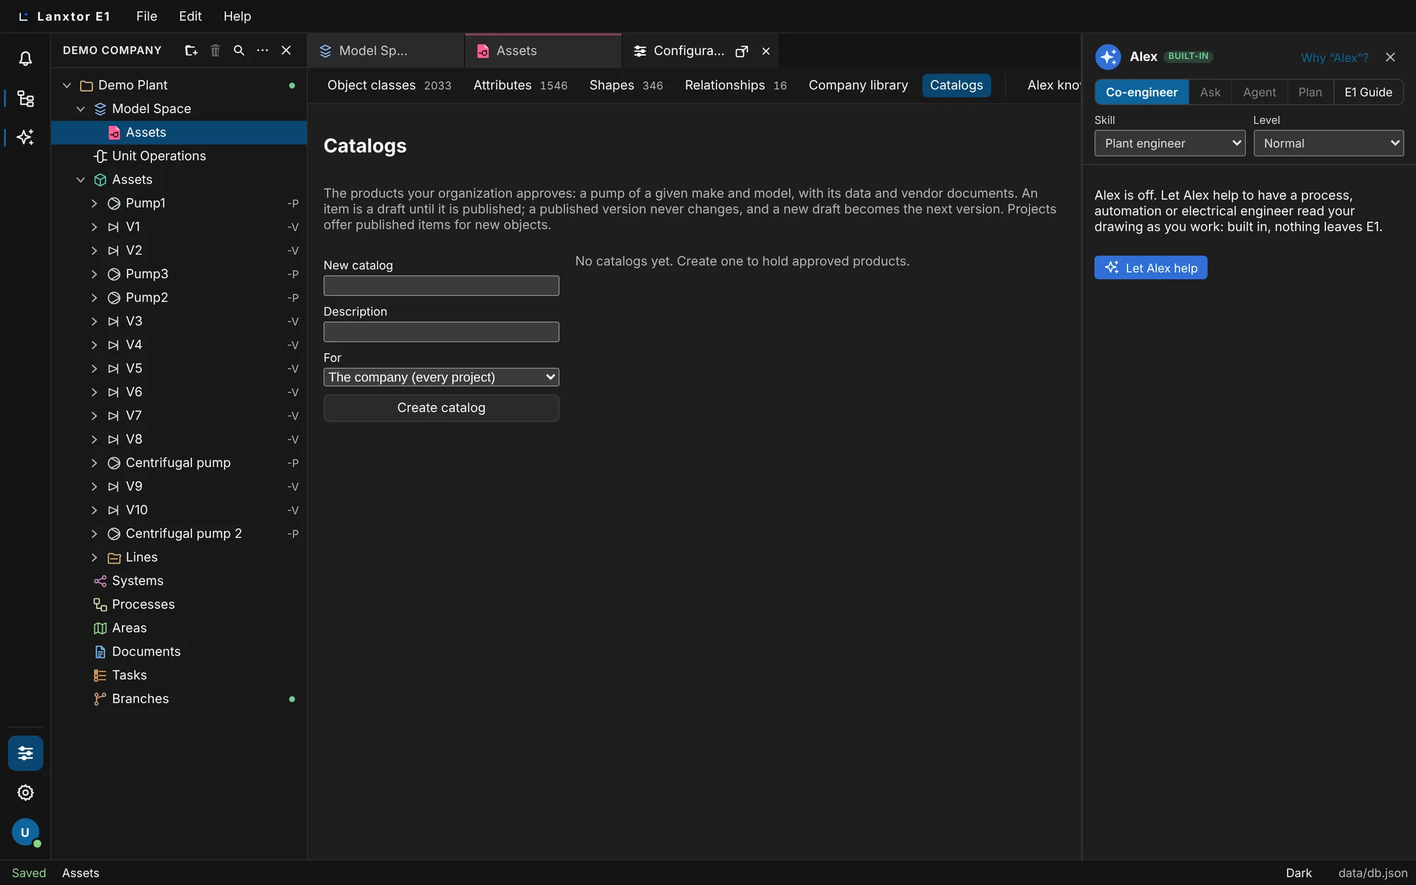
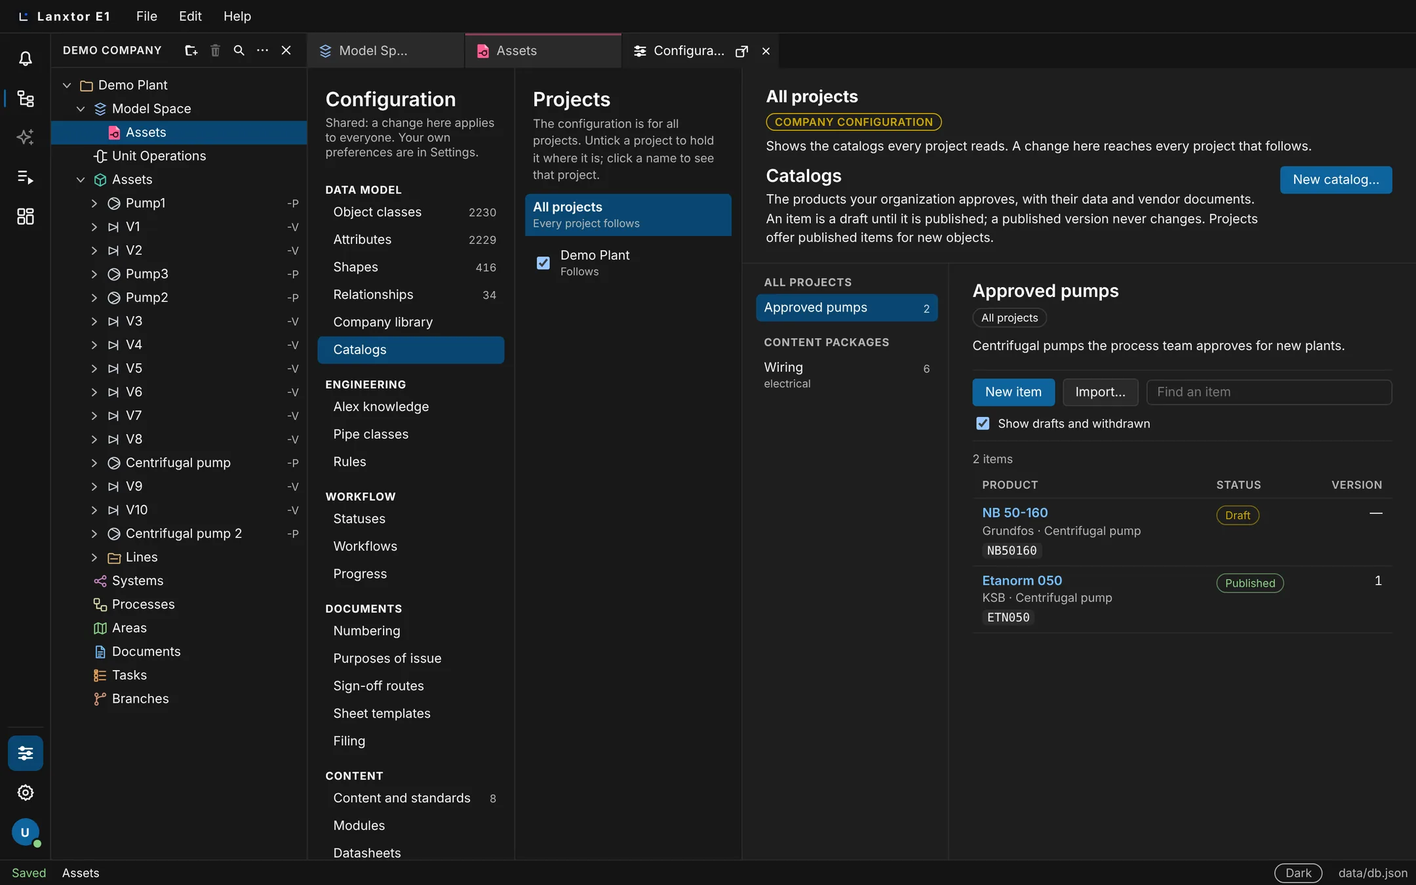
Guide LIB-catalogs: the redesigned Catalogs section, retaken screenshot
Steps describe New catalog… (a dialog), the catalogs grouped by where they
apply, items opened in place of the table, Find an item and Versions.
Adds a catalogs flow to the screenshot scenarios.

Claude-Session: https://claude.ai/code/session_011w3qqgxhwWpr3yaEkk4fk5

diff --git a/guide-library.html b/guide-library.html
@@ -407,7 +407,7 @@
 
 <section class="g-feature" id="lib-catalogs">
   <h2>Catalogs of approved products</h2>
-  <div class="g-meta"><span class="g-status available">Available</span><span>Since 2026-11-06</span><span>Updated 2026-11-08</span><span class="g-id">LIB-catalogs</span><span>Roadmap 20.1, 20.4</span><span>Review checks L12, L13, L18</span></div>
+  <div class="g-meta"><span class="g-status available">Available</span><span>Since 2026-11-06</span><span>Updated 2026-11-13</span><span class="g-id">LIB-catalogs</span><span>Roadmap 20.1, 20.4</span><span>Review checks L12, L13, L18</span></div>
   <p class="g-summary">A catalog holds the products your organization approves: a pump of a given make and model, with its data and vendor documents. An item is a draft until it is published; a published version never changes, and a new draft becomes the next version. Projects offer published items for new objects.</p>
   <dl class="g-facts">
     <dt>Where</dt><dd><span class="ui">Configuration</span> → <span class="ui">Catalogs</span></dd>
@@ -418,22 +418,22 @@
   <div class="g-table-wrap"><table class="g-steps">
     <thead><tr><th>#</th><th>Action</th><th>Expected result</th></tr></thead>
     <tbody>
-      <tr><td>1</td><td>Click <span class="ui">Catalogs</span>.</td><td>The form <span class="ui">New catalog</span>, <span class="ui">Description</span>, <span class="ui">For</span> (The company (every project)) and <span class="ui">Create catalog</span>. With no catalog: "No catalogs yet. Create one to hold approved products."</td></tr>
-      <tr><td>2</td><td>Type "Approved pumps" under New catalog and click <span class="ui">Create catalog</span>.</td><td>The catalog is listed with 0 items and opens: "No items in this catalog."</td></tr>
-      <tr><td>3</td><td>Click <span class="ui">New item</span>. Choose the <span class="ui">Class</span> Centrifugal pump, type Manufacturer KSB, Model Etanorm 050, Ordering code ETN050 and the flow rate 50.</td><td>The editor "New catalog item" shows the class's attributes with their units, <span class="ui">Shape</span> ("The class's default") and <span class="ui">Vendor documents</span>.</td></tr>
-      <tr><td>4</td><td>Click <span class="ui">Save draft</span>.</td><td>The table "Catalog items" shows the item with Status Draft.</td></tr>
-      <tr><td>5</td><td>Click <span class="ui">Publish</span> and confirm with OK.</td><td>The confirmation reads "Publish KSB Etanorm 050? This version never changes; projects offer it once their library pin includes it." The item is Published; its view shows version 1 and 50 m³/h.</td></tr>
-      <tr><td>6</td><td>Click <span class="ui">New version</span>, change the flow rate to 55, click <span class="ui">Save draft</span>.</td><td>The Status reads "Published · draft open".</td></tr>
-      <tr><td>7</td><td>Click <span class="ui">Publish</span> and OK.</td><td>The view shows version 2 and "Versions: 1 (<em>date</em>), 2 (<em>date</em>)". Both versions stay.</td></tr>
+      <tr><td>1</td><td>Click <span class="ui">Catalogs</span>.</td><td>Two panes: on the left the catalogs, grouped under All projects, This project and Content packages, each with its number of items; on the right the open catalog. With no catalog: "No catalogs yet. Create one to hold approved products." and <span class="ui">New catalog…</span>.</td></tr>
+      <tr><td>2</td><td>Click <span class="ui">New catalog…</span> at the top right. In the dialog type the <span class="ui">Name</span> "Approved pumps" (a <span class="ui">Description</span> is optional, <span class="ui">For projects</span> is All projects (the company library)) and click <span class="ui">Create catalog</span>.</td><td>The catalog is listed under All projects with 0 items and opens: "No items in this catalog. New item adds one; Import… reads a vendor list."</td></tr>
+      <tr><td>3</td><td>Click <span class="ui">New item</span>. Choose the <span class="ui">Class</span> Centrifugal pump, type Manufacturer KSB, Model Etanorm 050, Ordering code ETN050 and, under <span class="ui">Values</span>, the flow rate 50.</td><td>The editor "New catalog item" opens in place of the table, with the catalog's name above it to go back. It has <span class="ui">Product</span> (Class, Shape ("The class's default"), Manufacturer, Model, Ordering code, Description), <span class="ui">Values</span> (the class's attributes with their units) and <span class="ui">Vendor documents</span>.</td></tr>
+      <tr><td>4</td><td>Click <span class="ui">Save draft</span>.</td><td>The editor reads "Draft of KSB Etanorm 050", marked Draft. Back in the table (click the catalog's name) the item's Status is Draft.</td></tr>
+      <tr><td>5</td><td>Click <span class="ui">Publish</span> and confirm with OK.</td><td>The confirmation reads "Publish KSB Etanorm 050? This version never changes; projects offer it once their library pin includes it." The item is Published; its view shows Version 1 and, under Values, 50 m³/h.</td></tr>
+      <tr><td>6</td><td>Click <span class="ui">New version</span>, change the flow rate to 55, click <span class="ui">Save draft</span>.</td><td>The item is marked Published and Draft open, and "Next: version 2".</td></tr>
+      <tr><td>7</td><td>Click <span class="ui">Publish</span> and OK.</td><td>The view shows Version 2; under <span class="ui">Versions</span>, Version 1 and Version 2, each with its date. Both versions stay.</td></tr>
       <tr><td>8</td><td>Make a second item with the same manufacturer and ordering code; then try a flow rate in kg.</td><td>Both are refused: "KSB ETN050 is already in the catalog as …", and the unit, because it is not a flow rate ("… \"kg\" is not one of them."). Reinstating a withdrawn item while another has the same manufacturer and ordering code is refused too: "… has the same manufacturer and ordering code; withdraw it first."</td></tr>
       <tr><td>9</td><td>Click <span class="ui">Withdraw</span> on an item and OK.</td><td>The confirmation reads "Withdraw … ? It is no longer offered for new objects; objects made from it keep their values." The item shows Withdrawn; <span class="ui">Reinstate</span> brings it back.</td></tr>
-      <tr><td>10</td><td>Untick <span class="ui">Show drafts and withdrawn</span>.</td><td>Only published items remain in the table.</td></tr>
-      <tr><td>11</td><td>Click one project's name in the <span class="ui">Projects</span> pane, create a catalog with <span class="ui">For projects</span> Only that project, add and publish an item. Open another project's Catalogs.</td><td>The catalog is listed with "· This project" in its project; the other project does not list it.</td></tr>
+      <tr><td>10</td><td>Untick <span class="ui">Show drafts and withdrawn</span>, or type in <span class="ui">Find an item</span>.</td><td>Only published items remain in the table; Find an item keeps the items whose manufacturer, model, ordering code or class match.</td></tr>
+      <tr><td>11</td><td>Click one project's name in the <span class="ui">Projects</span> pane, create a catalog with <span class="ui">For projects</span> Only that project, add and publish an item. Open another project's Catalogs.</td><td>The catalog is listed under This project in its project; the other project does not list it.</td></tr>
     </tbody>
   </table></div>
-  <figure class="g-shot" style="max-width:1080px"><img src="assets/img/guides/config-catalogs.webp" alt="Configuration, Catalogs: the explanation, the New catalog form with Description, For and Create catalog, and the message No catalogs yet" width="2160" height="1350" loading="lazy"><figcaption>Catalogs, before the first catalog is made.</figcaption></figure>
+  <figure class="g-shot" style="max-width:1080px"><img src="assets/img/guides/config-catalogs.webp" alt="Configuration, Catalogs: the explanation and New catalog…, the catalogs grouped by where they apply, and the open catalog with its items" width="2160" height="1350" loading="lazy"><figcaption>Catalogs, with a catalog open.</figcaption></figure>
   <p class="g-note">An item can carry vendor documents (Title, Link, Kind: Vendor datasheet, Dimension drawing, Manual, Certificate or Other). <span class="ui">Create object</span> on a published item makes an object from it ("Made … in … from version n."). <span class="ui">Delete catalog</span> is offered only while a catalog has no items. The class of an item is fixed after its first publish.</p>
-  <p class="g-warn">An Engineer is refused <span class="ui">New item</span>, <span class="ui">Save draft</span>, <span class="ui">Publish</span> and <span class="ui">Withdraw</span> with the reason (review check L13). Catalogs can also come with a content package (read only, "· Content package"), but no content package has one yet.</p>
+  <p class="g-warn">An Engineer is refused <span class="ui">New item</span>, <span class="ui">Save draft</span>, <span class="ui">Publish</span> and <span class="ui">Withdraw</span> with the reason (review check L13). Catalogs can also come with a content package: they are listed under Content packages and marked Read only (the electrical package's Wiring is one).</p>
   <p class="g-related">Related: <a href="#lib-from-catalog">From catalog</a> · <a href="#lib-catalog-reapply">Re-apply and Detach</a> · <a href="#lib-catalog-import">Catalog import</a></p>
 </section>
 

diff --git a/tools/guides/src/library.html b/tools/guides/src/library.html
@@ -318,7 +318,7 @@
 
 <section class="g-feature" id="lib-catalogs">
   <h2>Catalogs of approved products</h2>
-  <div class="g-meta"><span class="g-status available">Available</span><span>Since 2026-11-06</span><span>Updated 2026-11-08</span><span class="g-id">LIB-catalogs</span><span>Roadmap 20.1, 20.4</span><span>Review checks L12, L13, L18</span></div>
+  <div class="g-meta"><span class="g-status available">Available</span><span>Since 2026-11-06</span><span>Updated 2026-11-13</span><span class="g-id">LIB-catalogs</span><span>Roadmap 20.1, 20.4</span><span>Review checks L12, L13, L18</span></div>
   <p class="g-summary">A catalog holds the products your organization approves: a pump of a given make and model, with its data and vendor documents. An item is a draft until it is published; a published version never changes, and a new draft becomes the next version. Projects offer published items for new objects.</p>
   <dl class="g-facts">
     <dt>Where</dt><dd><span class="ui">Configuration</span> → <span class="ui">Catalogs</span></dd>
@@ -329,22 +329,22 @@
   <div class="g-table-wrap"><table class="g-steps">
     <thead><tr><th>#</th><th>Action</th><th>Expected result</th></tr></thead>
     <tbody>
-      <tr><td>1</td><td>Click <span class="ui">Catalogs</span>.</td><td>The form <span class="ui">New catalog</span>, <span class="ui">Description</span>, <span class="ui">For</span> (The company (every project)) and <span class="ui">Create catalog</span>. With no catalog: "No catalogs yet. Create one to hold approved products."</td></tr>
-      <tr><td>2</td><td>Type "Approved pumps" under New catalog and click <span class="ui">Create catalog</span>.</td><td>The catalog is listed with 0 items and opens: "No items in this catalog."</td></tr>
-      <tr><td>3</td><td>Click <span class="ui">New item</span>. Choose the <span class="ui">Class</span> Centrifugal pump, type Manufacturer KSB, Model Etanorm 050, Ordering code ETN050 and the flow rate 50.</td><td>The editor "New catalog item" shows the class's attributes with their units, <span class="ui">Shape</span> ("The class's default") and <span class="ui">Vendor documents</span>.</td></tr>
-      <tr><td>4</td><td>Click <span class="ui">Save draft</span>.</td><td>The table "Catalog items" shows the item with Status Draft.</td></tr>
-      <tr><td>5</td><td>Click <span class="ui">Publish</span> and confirm with OK.</td><td>The confirmation reads "Publish KSB Etanorm 050? This version never changes; projects offer it once their library pin includes it." The item is Published; its view shows version 1 and 50 m³/h.</td></tr>
-      <tr><td>6</td><td>Click <span class="ui">New version</span>, change the flow rate to 55, click <span class="ui">Save draft</span>.</td><td>The Status reads "Published · draft open".</td></tr>
-      <tr><td>7</td><td>Click <span class="ui">Publish</span> and OK.</td><td>The view shows version 2 and "Versions: 1 (<em>date</em>), 2 (<em>date</em>)". Both versions stay.</td></tr>
+      <tr><td>1</td><td>Click <span class="ui">Catalogs</span>.</td><td>Two panes: on the left the catalogs, grouped under All projects, This project and Content packages, each with its number of items; on the right the open catalog. With no catalog: "No catalogs yet. Create one to hold approved products." and <span class="ui">New catalog…</span>.</td></tr>
+      <tr><td>2</td><td>Click <span class="ui">New catalog…</span> at the top right. In the dialog type the <span class="ui">Name</span> "Approved pumps" (a <span class="ui">Description</span> is optional, <span class="ui">For projects</span> is All projects (the company library)) and click <span class="ui">Create catalog</span>.</td><td>The catalog is listed under All projects with 0 items and opens: "No items in this catalog. New item adds one; Import… reads a vendor list."</td></tr>
+      <tr><td>3</td><td>Click <span class="ui">New item</span>. Choose the <span class="ui">Class</span> Centrifugal pump, type Manufacturer KSB, Model Etanorm 050, Ordering code ETN050 and, under <span class="ui">Values</span>, the flow rate 50.</td><td>The editor "New catalog item" opens in place of the table, with the catalog's name above it to go back. It has <span class="ui">Product</span> (Class, Shape ("The class's default"), Manufacturer, Model, Ordering code, Description), <span class="ui">Values</span> (the class's attributes with their units) and <span class="ui">Vendor documents</span>.</td></tr>
+      <tr><td>4</td><td>Click <span class="ui">Save draft</span>.</td><td>The editor reads "Draft of KSB Etanorm 050", marked Draft. Back in the table (click the catalog's name) the item's Status is Draft.</td></tr>
+      <tr><td>5</td><td>Click <span class="ui">Publish</span> and confirm with OK.</td><td>The confirmation reads "Publish KSB Etanorm 050? This version never changes; projects offer it once their library pin includes it." The item is Published; its view shows Version 1 and, under Values, 50 m³/h.</td></tr>
+      <tr><td>6</td><td>Click <span class="ui">New version</span>, change the flow rate to 55, click <span class="ui">Save draft</span>.</td><td>The item is marked Published and Draft open, and "Next: version 2".</td></tr>
+      <tr><td>7</td><td>Click <span class="ui">Publish</span> and OK.</td><td>The view shows Version 2; under <span class="ui">Versions</span>, Version 1 and Version 2, each with its date. Both versions stay.</td></tr>
       <tr><td>8</td><td>Make a second item with the same manufacturer and ordering code; then try a flow rate in kg.</td><td>Both are refused: "KSB ETN050 is already in the catalog as …", and the unit, because it is not a flow rate ("… \"kg\" is not one of them."). Reinstating a withdrawn item while another has the same manufacturer and ordering code is refused too: "… has the same manufacturer and ordering code; withdraw it first."</td></tr>
       <tr><td>9</td><td>Click <span class="ui">Withdraw</span> on an item and OK.</td><td>The confirmation reads "Withdraw … ? It is no longer offered for new objects; objects made from it keep their values." The item shows Withdrawn; <span class="ui">Reinstate</span> brings it back.</td></tr>
-      <tr><td>10</td><td>Untick <span class="ui">Show drafts and withdrawn</span>.</td><td>Only published items remain in the table.</td></tr>
-      <tr><td>11</td><td>Click one project's name in the <span class="ui">Projects</span> pane, create a catalog with <span class="ui">For projects</span> Only that project, add and publish an item. Open another project's Catalogs.</td><td>The catalog is listed with "· This project" in its project; the other project does not list it.</td></tr>
+      <tr><td>10</td><td>Untick <span class="ui">Show drafts and withdrawn</span>, or type in <span class="ui">Find an item</span>.</td><td>Only published items remain in the table; Find an item keeps the items whose manufacturer, model, ordering code or class match.</td></tr>
+      <tr><td>11</td><td>Click one project's name in the <span class="ui">Projects</span> pane, create a catalog with <span class="ui">For projects</span> Only that project, add and publish an item. Open another project's Catalogs.</td><td>The catalog is listed under This project in its project; the other project does not list it.</td></tr>
     </tbody>
   </table></div>
-  <figure class="g-shot"><img src="assets/img/guides/config-catalogs.webp" alt="Configuration, Catalogs: the explanation, the New catalog form with Description, For and Create catalog, and the message No catalogs yet" width="2160" height="1350" loading="lazy"><figcaption>Catalogs, before the first catalog is made.</figcaption></figure>
+  <figure class="g-shot"><img src="assets/img/guides/config-catalogs.webp" alt="Configuration, Catalogs: the explanation and New catalog…, the catalogs grouped by where they apply, and the open catalog with its items" width="2160" height="1350" loading="lazy"><figcaption>Catalogs, with a catalog open.</figcaption></figure>
   <p class="g-note">An item can carry vendor documents (Title, Link, Kind: Vendor datasheet, Dimension drawing, Manual, Certificate or Other). <span class="ui">Create object</span> on a published item makes an object from it ("Made … in … from version n."). <span class="ui">Delete catalog</span> is offered only while a catalog has no items. The class of an item is fixed after its first publish.</p>
-  <p class="g-warn">An Engineer is refused <span class="ui">New item</span>, <span class="ui">Save draft</span>, <span class="ui">Publish</span> and <span class="ui">Withdraw</span> with the reason (review check L13). Catalogs can also come with a content package (read only, "· Content package"), but no content package has one yet.</p>
+  <p class="g-warn">An Engineer is refused <span class="ui">New item</span>, <span class="ui">Save draft</span>, <span class="ui">Publish</span> and <span class="ui">Withdraw</span> with the reason (review check L13). Catalogs can also come with a content package: they are listed under Content packages and marked Read only (the electrical package's Wiring is one).</p>
   <p class="g-related">Related: <a href="#lib-from-catalog">From catalog</a> · <a href="#lib-catalog-reapply">Re-apply and Detach</a> · <a href="#lib-catalog-import">Catalog import</a></p>
 </section>
 

diff --git a/guide-features.html b/guide-features.html
@@ -320,7 +320,7 @@
             <tr data-status="available" data-cat="library"><td class="g-id">LIB-project-library</td><td><a href="guide-library.html#lib-project-library">Only the ticked projects: the project library</a><br><span class="muted">Publish classes and attributes that only one project has.</span></td><td>Configuration, library and catalogs</td><td><span class="g-status available">Available</span></td><td class="g-date">2026-11-06</td><td class="g-date">2026-11-08</td><td>11.4</td><td>L9</td><td>The project library</td></tr>
             <tr data-status="available" data-cat="library"><td class="g-id">LIB-convention-templates</td><td><a href="guide-library.html#lib-convention-templates">Convention templates for tag rules</a><br><span class="muted">Publish tag rules as a template, apply it to a project and take over new versions when you choose.</span></td><td>Configuration, library and catalogs</td><td><span class="g-status available">Available</span></td><td class="g-date">2026-11-06</td><td class="g-date"></td><td>11.4</td><td>L11</td><td>Convention templates</td></tr>
             <tr data-status="available" data-cat="library"><td class="g-id">LIB-pin-version</td><td><a href="guide-library.html#lib-pin-version">Pin a project to a library version</a><br><span class="muted">Keep a project on an earlier company library version, with a preview, by asking Alex (with its AI help).</span></td><td>Configuration, library and catalogs</td><td><span class="g-status available">Available</span></td><td class="g-date">2026-11-06</td><td class="g-date"></td><td>11.4</td><td>L10</td><td>Pinning a library version</td></tr>
-            <tr data-status="available" data-cat="library"><td class="g-id">LIB-catalogs</td><td><a href="guide-library.html#lib-catalogs">Catalogs of approved products</a><br><span class="muted">Keep approved products with their data and vendor documents in versioned company or project catalogs.</span></td><td>Configuration, library and catalogs</td><td><span class="g-status available">Available</span></td><td class="g-date">2026-11-06</td><td class="g-date">2026-11-08</td><td>20.1, 20.4</td><td>L12, L13, L18</td><td>Building a product catalog</td></tr>
+            <tr data-status="available" data-cat="library"><td class="g-id">LIB-catalogs</td><td><a href="guide-library.html#lib-catalogs">Catalogs of approved products</a><br><span class="muted">Keep approved products with their data and vendor documents in versioned company or project catalogs.</span></td><td>Configuration, library and catalogs</td><td><span class="g-status available">Available</span></td><td class="g-date">2026-11-06</td><td class="g-date">2026-11-13</td><td>20.1, 20.4</td><td>L12, L13, L18</td><td>Building a product catalog</td></tr>
             <tr data-status="available" data-cat="library"><td class="g-id">LIB-from-catalog</td><td><a href="guide-library.html#lib-from-catalog">Make an object from a catalog item</a><br><span class="muted">Create an object filled with a catalog item&#x27;s values and see which values differ from the catalog.</span></td><td>Configuration, library and catalogs</td><td><span class="g-status available">Available</span></td><td class="g-date">2026-11-06</td><td class="g-date"></td><td>20.2</td><td>L14, L15</td><td>Objects from catalog items</td></tr>
             <tr data-status="available" data-cat="library"><td class="g-id">LIB-catalog-reapply</td><td><a href="guide-library.html#lib-catalog-reapply">Re-apply a catalog item, or detach from it</a><br><span class="muted">Bring objects up to a new catalog item version while keeping hand-changed values, or end the link.</span></td><td>Configuration, library and catalogs</td><td><span class="g-status available">Available</span></td><td class="g-date">2026-11-06</td><td class="g-date"></td><td>20.3</td><td>L16, L17</td><td>Catalog updates: re-apply and detach</td></tr>
             <tr data-status="available" data-cat="library"><td class="g-id">LIB-content-packages</td><td><a href="guide-library.html#lib-content-packages">Content packages and standards</a><br><span class="muted">See the content packages Core, Electrical foundation, Plant engineering, CFIHOS, NORSOK SCD, Specification, Wire harness and Marine, and which ones a project uses.</span></td><td>Configuration, library and catalogs</td><td><span class="g-status available">Available</span></td><td class="g-date">2026-11-02</td><td class="g-date">2026-11-12</td><td>M1.3, 04.9</td><td></td><td>Content packages and standards</td></tr>

diff --git a/guide.html b/guide.html
@@ -159,6 +159,7 @@
           <ul class="g-news">
             <li><time datetime="2026-11-13">2026-11-13</time><span><a href="guide-projects.html#prj-sample-project">The sample project: Demo Plant</a> <span class="g-status available">Available</span> <span class="muted">— Projects and the explorer</span></span></li>
             <li><time datetime="2026-11-13">2026-11-13</time><span><a href="guide-drawing.html#draw-off-page">Off-page connectors and Continue on 2D space</a> <span class="g-status available">Available</span> <span class="muted">— Drawing P&amp;IDs</span></span></li>
+            <li><time datetime="2026-11-13">2026-11-13</time><span><a href="guide-library.html#lib-catalogs">Catalogs of approved products</a> <span class="g-status available">Available</span> <span class="muted">— Configuration, library and catalogs</span></span></li>
             <li><time datetime="2026-11-13">2026-11-13</time><span><a href="guide-wiring.html#wire-enclosures">Cabinets and junction boxes: where they are and what they hold</a> <span class="g-status available">Available</span> <span class="muted">— Wiring (EI&amp;C)</span></span></li>
             <li><time datetime="2026-11-13">2026-11-13</time><span><a href="guide-wiring.html#wire-terminals">Add terminals to a strip</a> <span class="g-status available">Available</span> <span class="muted">— Wiring (EI&amp;C)</span></span></li>
             <li><time datetime="2026-11-13">2026-11-13</time><span><a href="guide-wiring.html#wire-cables-cores">Cables, their cores, and landing a core on a terminal</a> <span class="g-status available">Available</span> <span class="muted">— Wiring (EI&amp;C)</span></span></li>
@@ -186,7 +187,6 @@
             <li><time datetime="2026-11-13">2026-11-13</time><span><a href="guide-wiring.html#wire-numbering">Number wires</a> <span class="g-status available">Available</span> <span class="muted">— Wiring (EI&amp;C)</span></span></li>
             <li><time datetime="2026-11-13">2026-11-13</time><span><a href="guide-wiring.html#wire-routes">Cable routes: trays, conduits and fill</a> <span class="g-status available">Available</span> <span class="muted">— Wiring (EI&amp;C)</span></span></li>
             <li><time datetime="2026-11-13">2026-11-13</time><span><a href="guide-wiring.html#wire-field-view">The field view of the wire moves</a> <span class="g-status available">Available</span> <span class="muted">— Wiring (EI&amp;C)</span></span></li>
-            <li><time datetime="2026-11-13">2026-11-13</time><span><a href="guide-wiring.html#wire-compare">Compare wiring with a revision</a> <span class="g-status available">Available</span> <span class="muted">— Wiring (EI&amp;C)</span></span></li>
           </ul>
         </section>
         <section class="g-block" id="under-development">
